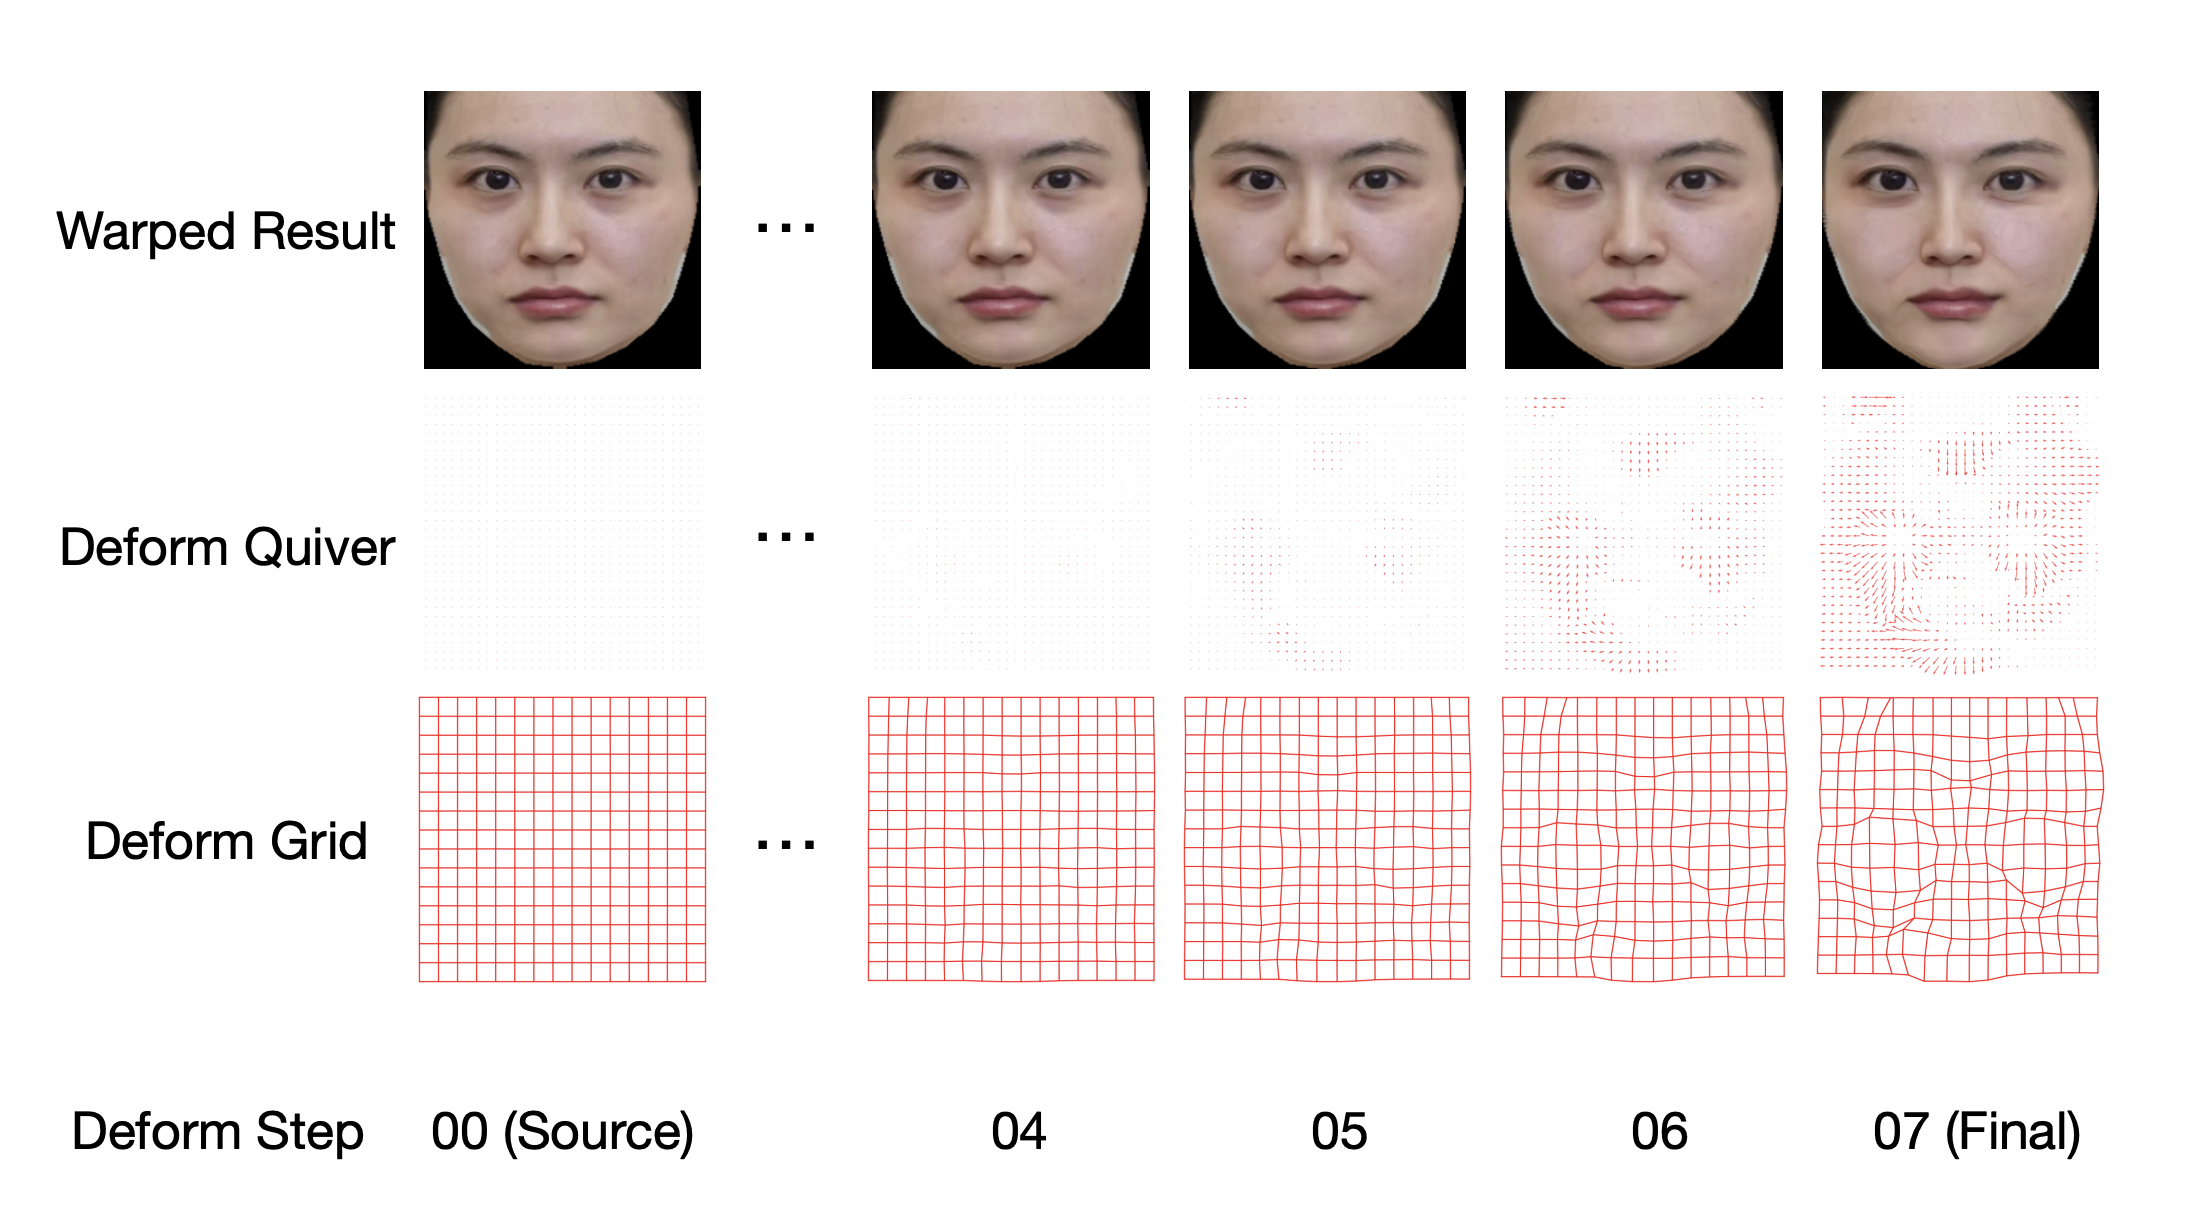
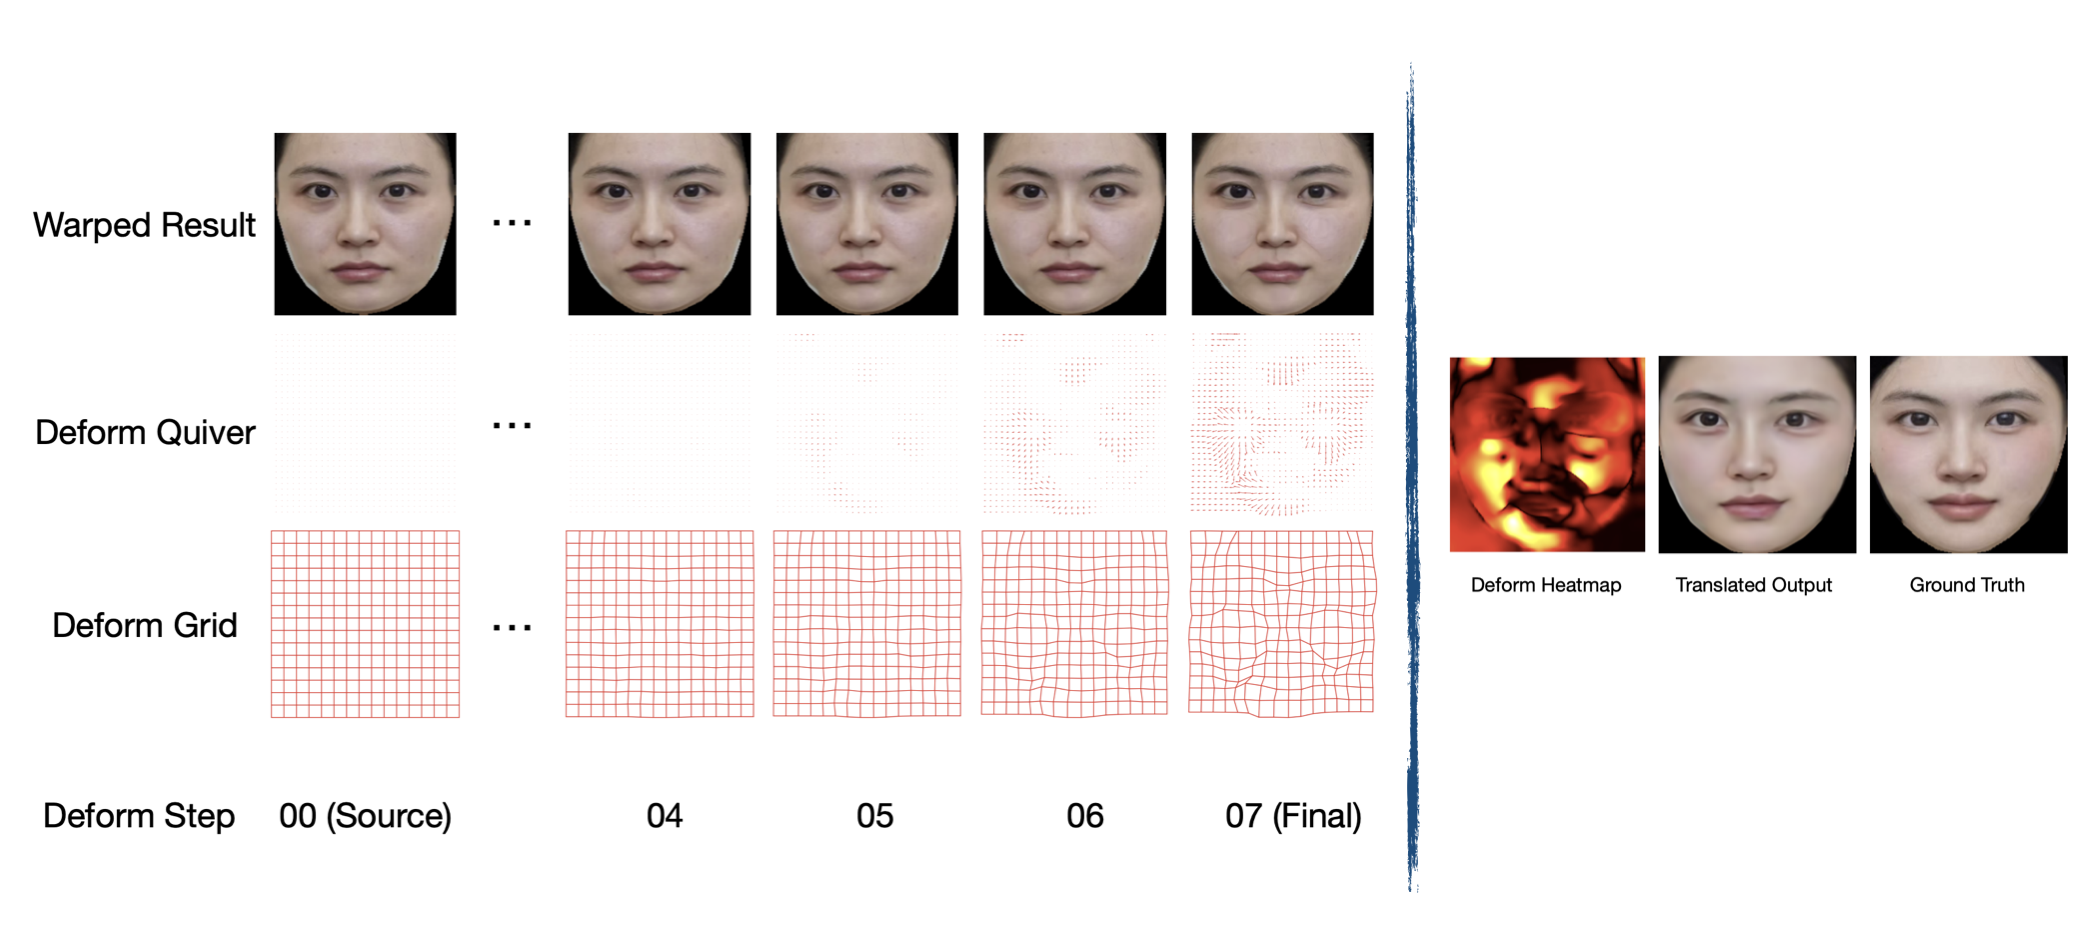
update README. add tracetrans/

diff --git a/tracetrans/__init__.py b/tracetrans/__init__.py
@@ -1,0 +1,14 @@
+# ---- tracetrans ----
+
+import os
+import torch
+
+import neurite
+
+
+from . import data_loaders
+from . import layers
+from . import losses
+from . import networks
+from . import utils
+from . import tracetrans_model

diff --git a/README.md b/README.md
@@ -10,16 +10,13 @@ We plan to make the full code **public** as soon as the patent application proce
 
 ---
 
-### Model Architecture Overview
+### Model Framework Overview
 
 ![arch](figures/architecture.png)
 
 ### Deformation Steps Overview
 
-<div style="display: flex; align-items: center; gap: 3%;">
-  <img src="figures/deform_steps.png" style="width: 67%; height: auto;" />
-  <img src="figures/translation.png" style="width: 30%; height: auto;" />
-</div>
+![arch](figures/deform_steps.png)
 
 ---
 
